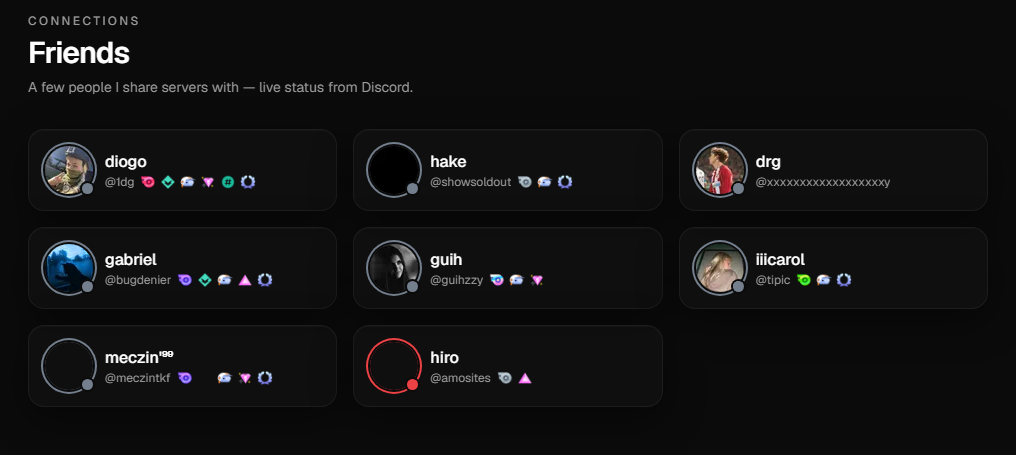
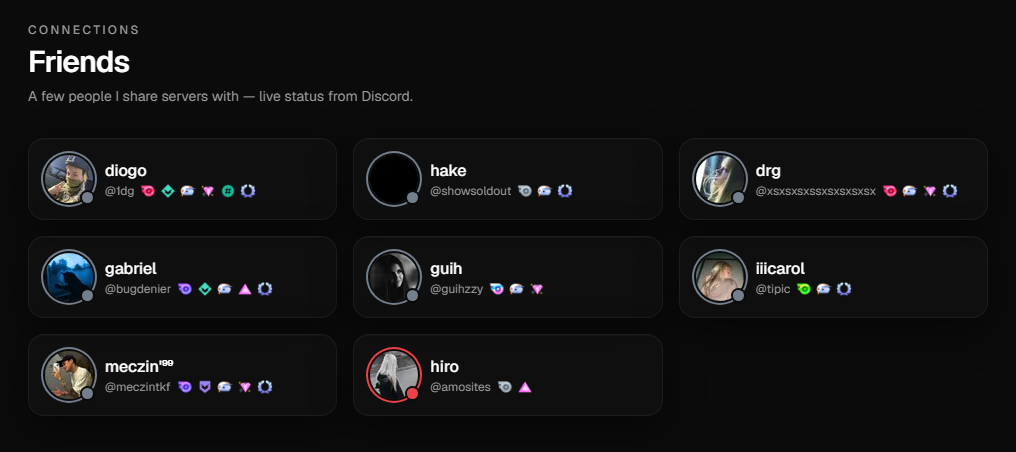
Update screenshots and modify Discord friend ID in constants

diff --git a/lib/constants.ts b/lib/constants.ts
@@ -9,7 +9,7 @@ export const GITHUB_USER = "q6r";
 export const DISCORD_FRIEND_IDS = [
   "460895785333161985",
   "375760861777756172",
-  "988421692311339078",
+  "298527677394976789",
   "347796715363106816",
   "408002057522380801",
   "145922846873485312",